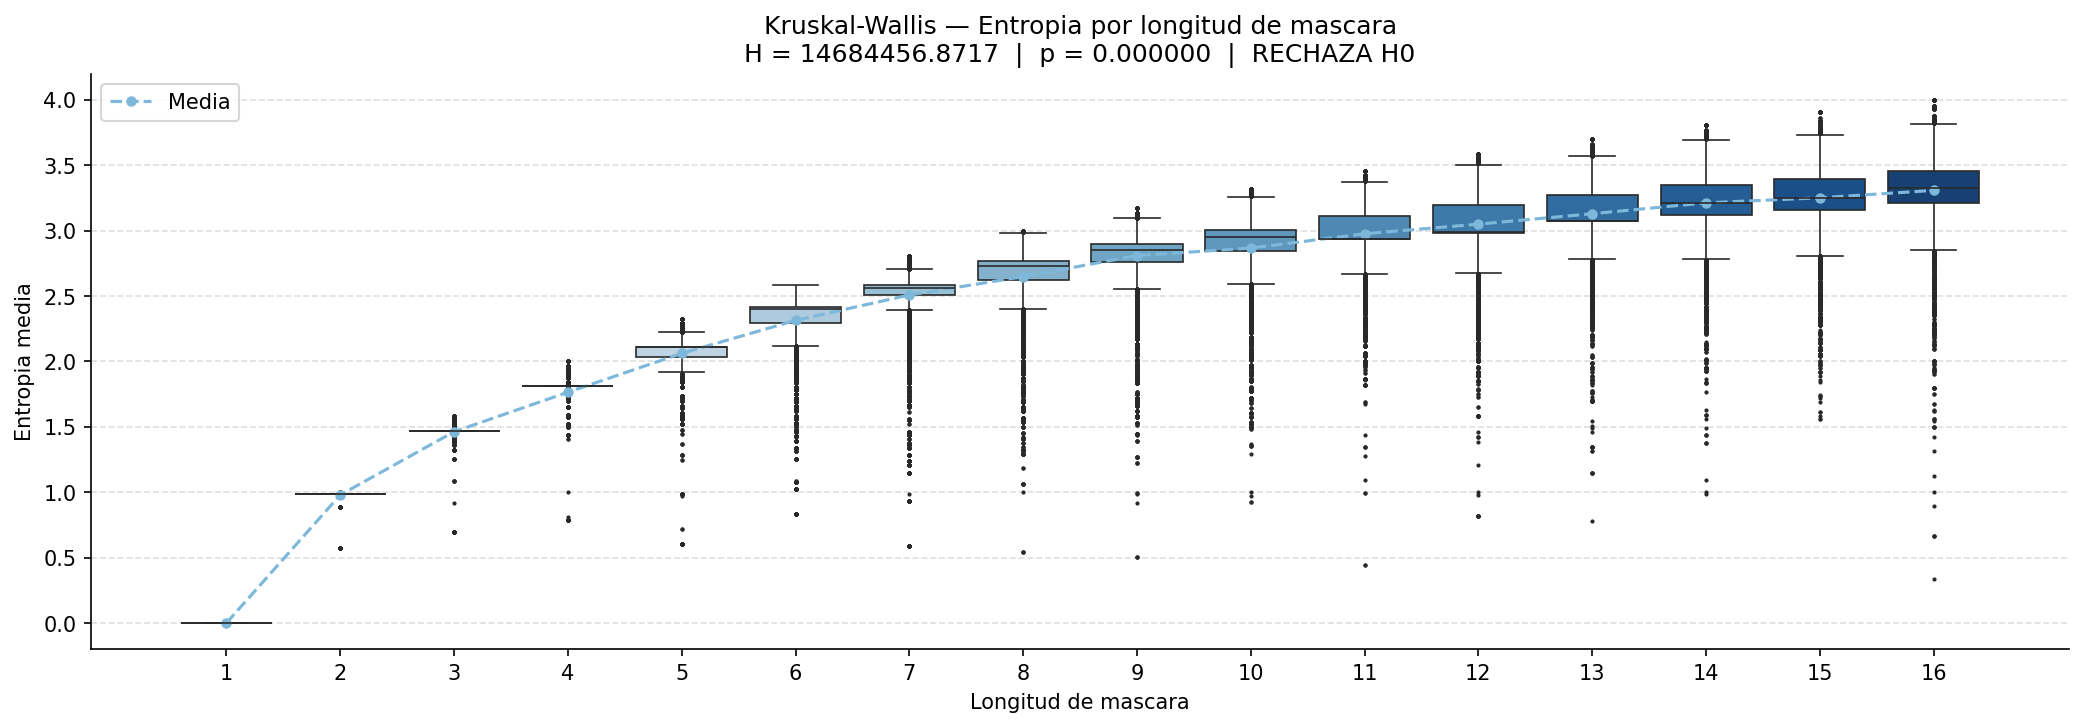
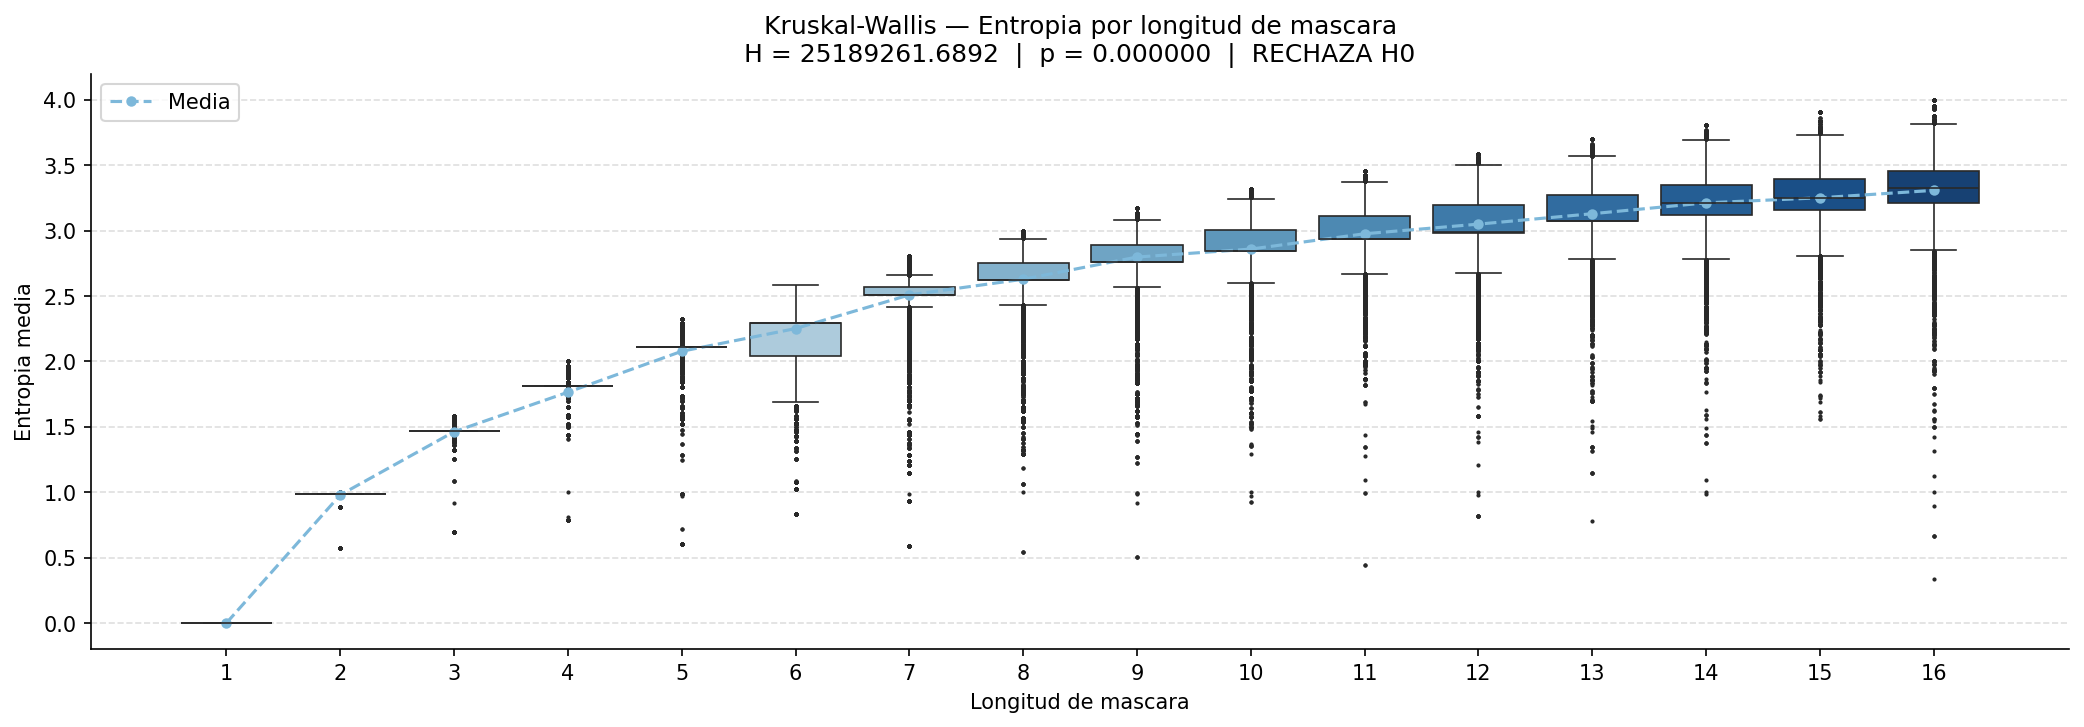
feat: annade test de independencia para matriz de transiciones y test de correlacions para aparicion en mascaras

diff --git a/codigo/03_modelacion.py b/codigo/03_modelacion.py
@@ -1256,12 +1256,368 @@ def analizar_patrones_mascaras():
     print(f"  -> Graficos en {OUT_PAT_DIR}/")
 
 
+def chi2_independencia_transiciones(alpha=0.05):
+    """
+    Aplica la prueba chi-cuadrado de independencia sobre la matriz de bigramas
+    de transicion entre tipos de caracter (L, U, D, S), para determinar si
+    el tipo destino es estadisticamente independiente del tipo origen.
+
+    Args:
+        None
+
+    Returns:
+        None: Guarda un grafico de residuos estandarizados y un resumen en texto plano.
+
+    Example:
+        >>> chi2_independencia_transiciones()
+        Chi2 de independencia (transiciones): X2 = 812345.23   gl = 9   p = 0.000000   RECHAZA H0
+        V de Cramer: 0.4821   Asociacion: Grande
+
+    Notes:
+        Los conteos crudos se reconstruyen desde ROCKYOUMASKS contando las
+        transiciones tipo-a-tipo ponderadas por frecuencia de mascara.
+        La prueba usa scipy.stats.chi2_contingency con correccion de Yates
+        desactivada (no aplica para tablas mayores a 2x2).
+        Se complementa con la V de Cramer para cuantificar la fuerza de
+        asociacion independientemente del tamaño muestral.
+        Con n en el orden de millones el rechazo de H0 es casi inevitable;
+        la V de Cramer es el indicador practico relevante.
+    """
+
+    OUT_CHI2_DIR = "../datos/procesados/graficos_chi2"
+    OUT_CHI2_TXT = "../datos/procesados/chi2_transiciones_resumen.txt"
+    os.makedirs(OUT_CHI2_DIR, exist_ok=True)
+
+    mascaras    = []
+    frecuencias = []
+
+    with open(ROCKYOUMASKS, "r", encoding="utf-8") as f:
+        reader = csv.DictReader(f)
+        for row in reader:
+            mascaras.append(row["mascara"])
+            frecuencias.append(int(row["frecuencia"]))
+
+    mascaras    = np.array(mascaras)
+    frecuencias = np.array(frecuencias, dtype=float)
+
+    tipos_ord = ["L", "U", "D", "S"]
+    t_idx     = {t: i for i, t in enumerate(tipos_ord)}
+    trans_mat = np.zeros((4, 4), dtype=float)
+
+    for m, f in zip(mascaras, frecuencias):
+        for k in range(len(m) - 1):
+            a, b = m[k], m[k + 1]
+            if a in t_idx and b in t_idx:
+                trans_mat[t_idx[a], t_idx[b]] += f
+
+    # scipy espera conteos enteros; se redondea porque las frecuencias son pesos
+    trans_counts = np.round(trans_mat).astype(int)
+
+    chi2, p, gl, esperados = stats.chi2_contingency(trans_counts, correction=False)
+
+    n        = trans_counts.sum()
+    min_dim  = min(trans_counts.shape[0] - 1, trans_counts.shape[1] - 1)
+    cramer_v = math.sqrt(chi2 / (n * min_dim))
+
+    rechaza = p < alpha
+    estado  = "RECHAZA H0" if rechaza else "No rechaza H0"
+
+    # Interpretar V de Cramer con gl = min(r-1, c-1) = 3
+    if cramer_v >= 0.29:
+        fuerza = "Grande"
+    elif cramer_v >= 0.17:
+        fuerza = "Media"
+    elif cramer_v >= 0.06:
+        fuerza = "Pequeña"
+    else:
+        fuerza = "Muy pequeña"
+
+    print(f"  Chi2 de independencia (transiciones): X2 = {chi2:.2f}   gl = {gl}   p = {p:.6f}   {estado}")
+    print(f"  V de Cramer: {cramer_v:.4f}   Asociacion: {fuerza}")
+
+    # Residuos estandarizados: (observado - esperado) / sqrt(esperado)
+    residuos = (trans_counts - esperados) / np.sqrt(esperados)
+
+    fig, axes = plt.subplots(1, 2, figsize=(12, 4))
+    fig.patch.set_facecolor("white")
+
+    ax1 = axes[0]
+    ax1.set_facecolor("white")
+    sns.heatmap(
+        trans_counts,
+        annot=True,
+        fmt=".0f",
+        xticklabels=tipos_ord,
+        yticklabels=tipos_ord,
+        cmap="Blues",
+        linewidths=0.5,
+        ax=ax1,
+        annot_kws={"size": 10}
+    )
+    ax1.set_title("Conteos observados\n(bigramas de transicion)", fontsize=10)
+    ax1.set_xlabel("Tipo destino")
+    ax1.set_ylabel("Tipo origen")
+
+    ax2 = axes[1]
+    ax2.set_facecolor("white")
+    sns.heatmap(
+        residuos,
+        annot=True,
+        fmt=".2f",
+        xticklabels=tipos_ord,
+        yticklabels=tipos_ord,
+        cmap="RdBu_r",
+        center=0,
+        linewidths=0.5,
+        ax=ax2,
+        annot_kws={"size": 10}
+    )
+    ax2.set_title(
+        f"Residuos estandarizados\nX² = {chi2:.2f}  |  gl = {gl}  |  V = {cramer_v:.4f}  |  {fuerza}",
+        fontsize=10
+    )
+    ax2.set_xlabel("Tipo destino")
+    ax2.set_ylabel("Tipo origen")
+
+    plt.suptitle(
+        f"Chi-cuadrado de independencia — transiciones entre tipos\n{estado}   p = {p:.6f}",
+        fontsize=11, y=1.02
+    )
+    plt.tight_layout()
+    plt.savefig(f"{OUT_CHI2_DIR}/chi2_transiciones.png", dpi=150, bbox_inches="tight", facecolor="white")
+    plt.close()
+
+    lineas = []
+    def pr(t=""):
+        lineas.append(t)
+
+    pr("=" * 65)
+    pr("  CHI2 DE INDEPENDENCIA — Bigramas de transicion entre tipos")
+    pr("=" * 65)
+    pr(f"  Mascaras unicas : {len(mascaras):>10,}")
+    pr(f"  Transiciones    : {int(n):>10,}")
+    pr()
+    pr(f"  X² estadistico  : {chi2:.4f}")
+    pr(f"  Grados de lib.  : {gl}")
+    pr(f"  p-valor         : {p:.6f}")
+    pr(f"  Resultado       : {estado}")
+    pr()
+    pr(f"  V de Cramer     : {cramer_v:.4f}   ({fuerza})")
+    pr()
+    pr("  Nota: con n en el orden de millones el rechazo de H0 es")
+    pr("  esperable. La V de Cramer es el indicador practico clave.")
+    pr(f"\n  Grafico en: {OUT_CHI2_DIR}/chi2_transiciones.png")
+
+    with open(OUT_CHI2_TXT, "w", encoding="utf-8") as f:
+        f.write("\n".join(lineas) + "\n")
+
+    print(f"\n  -> {OUT_CHI2_TXT} guardado")
+    print(f"  -> Grafico en {OUT_CHI2_DIR}/")
+
+
+def spearman_coocurrencia_tipos(alpha=0.05):
+    """
+    Calcula la correlacion de Spearman entre la presencia individual de cada
+    tipo de caracter (diagonal de la matriz de co-ocurrencia) y su co-ocurrencia
+    promedio con los demas tipos (promedio de la fila fuera de la diagonal),
+    usando los cuatro tipos L, U, D, S.
+
+    Adicionalmente calcula Spearman entre todos los pares de valores de
+    co-ocurrencia Jaccard ponderado (triangulo superior) y la presencia
+    individual de cada tipo involucrado en el par.
+
+    Args:
+        None
+
+    Returns:
+        None: Guarda un grafico de dispersion con tendencia y un resumen en texto plano.
+
+    Example:
+        >>> spearman_coocurrencia_tipos()
+        Spearman presencia vs co-ocurrencia media: rho = 0.9487   p = 0.0513   No rechaza H0
+        Spearman pares Jaccard vs presencia media del par: rho = 0.8321   p = 0.0000   RECHAZA H0
+
+    Notes:
+        La presencia individual se calcula como el porcentaje ponderado de
+        contrasennas que contienen al menos una vez el tipo dado.
+        La co-ocurrencia Jaccard ponderado entre tipos A y B se define como
+        frecuencia(A y B) / frecuencia(A o B) * 100.
+        Con solo 4 tipos el n de la primera correlacion es pequeno (n=4);
+        la segunda usa los C(4,2)=6 pares del triangulo superior (n=6).
+        Los resultados deben interpretarse como exploratoria descriptiva.
+    """
+
+    OUT_SP2_DIR = "../datos/procesados/graficos_spearman_cooc"
+    OUT_SP2_TXT = "../datos/procesados/spearman_coocurrencia_resumen.txt"
+    os.makedirs(OUT_SP2_DIR, exist_ok=True)
+
+    mascaras    = []
+    frecuencias = []
+
+    with open(ROCKYOUMASKS, "r", encoding="utf-8") as f:
+        reader = csv.DictReader(f)
+        for row in reader:
+            mascaras.append(row["mascara"])
+            frecuencias.append(int(row["frecuencia"]))
+
+    mascaras    = np.array(mascaras)
+    frecuencias = np.array(frecuencias, dtype=float)
+    total_pw    = frecuencias.sum()
+
+    chars_set = [set(m) for m in mascaras]
+
+    tipos4 = ["L", "U", "D", "S"]
+    tiene  = {
+        t: np.array([t in s for s in chars_set])
+        for t in tipos4
+    }
+
+    def wpct(mask_bool):
+        return frecuencias[mask_bool].sum() / total_pw * 100
+
+    # Matriz de co-ocurrencia identica a la del analisis de patrones
+    n4  = len(tipos4)
+    mat = np.zeros((n4, n4))
+
+    for i, ti in enumerate(tipos4):
+        for j, tj in enumerate(tipos4):
+            if i == j:
+                mat[i, j] = wpct(tiene[ti])
+            else:
+                ambos      = tiene[ti] & tiene[tj]
+                cualquiera = tiene[ti] | tiene[tj]
+                denom      = frecuencias[cualquiera].sum()
+                mat[i, j]  = (frecuencias[ambos].sum() / denom * 100) if denom > 0 else 0
+
+    # Correlacion 1: presencia individual vs co-ocurrencia media con otros tipos
+    presencia_ind = np.array([mat[i, i] for i in range(n4)])
+    cooc_media    = np.array([
+        np.mean([mat[i, j] for j in range(n4) if j != i])
+        for i in range(n4)
+    ])
+
+    rho1, p1 = stats.spearmanr(presencia_ind, cooc_media)
+    rechaza1  = p1 < alpha
+    estado1   = "RECHAZA H0" if rechaza1 else "No rechaza H0"
+
+    print(f"  Spearman presencia vs co-ocurrencia media: rho = {rho1:.4f}   p = {p1:.4f}   {estado1}")
+
+    # Correlacion 2: para cada par (i,j) con i<j, Jaccard vs media de presencias del par
+    pares_jaccard  = []
+    pares_presencia = []
+    pares_labels    = []
+
+    for i in range(n4):
+        for j in range(i + 1, n4):
+            pares_jaccard.append(mat[i, j])
+            pares_presencia.append((presencia_ind[i] + presencia_ind[j]) / 2)
+            pares_labels.append(f"{tipos4[i]}-{tipos4[j]}")
+
+    pares_jaccard   = np.array(pares_jaccard)
+    pares_presencia = np.array(pares_presencia)
+
+    rho2, p2 = stats.spearmanr(pares_jaccard, pares_presencia)
+    rechaza2  = p2 < 0.05
+    estado2   = "RECHAZA H0" if rechaza2 else "No rechaza H0"
+
+    print(f"  Spearman pares Jaccard vs presencia media del par: rho = {rho2:.4f}   p = {p2:.4f}   {estado2}")
+
+    fig, axes = plt.subplots(1, 2, figsize=(13, 5))
+    fig.patch.set_facecolor("white")
+
+    ax1 = axes[0]
+    ax1.set_facecolor("white")
+    ax1.scatter(presencia_ind, cooc_media, s=120, color=palette[7], edgecolors=palette[9], zorder=3)
+
+    for i, label in enumerate(tipos4):
+        ax1.annotate(label, (presencia_ind[i], cooc_media[i]),
+                     textcoords="offset points", xytext=(6, 4), fontsize=11)
+
+    if len(presencia_ind) > 2:
+        z     = np.polyfit(presencia_ind, cooc_media, 1)
+        p_fit = np.poly1d(z)
+        xs    = np.linspace(presencia_ind.min(), presencia_ind.max(), 100)
+        ax1.plot(xs, p_fit(xs), "--", color=palette[4], linewidth=1.5, label="Tendencia")
+        ax1.legend()
+
+    ax1.set_title(
+        f"Presencia individual vs Co-ocurrencia media\nrho = {rho1:.4f}  |  p = {p1:.4f}  |  {estado1}",
+        fontsize=11
+    )
+    ax1.set_xlabel("Presencia individual del tipo (%)")
+    ax1.set_ylabel("Co-ocurrencia media con otros tipos (%)")
+    sns.despine(ax=ax1)
+    ax1.grid(linestyle="--", alpha=0.4)
+
+    ax2 = axes[1]
+    ax2.set_facecolor("white")
+    ax2.scatter(pares_presencia, pares_jaccard, s=120, color=palette[7], edgecolors=palette[9], zorder=3)
+
+    for i, label in enumerate(pares_labels):
+        ax2.annotate(label, (pares_presencia[i], pares_jaccard[i]),
+                     textcoords="offset points", xytext=(6, 4), fontsize=10)
+
+    if len(pares_presencia) > 2:
+        z     = np.polyfit(pares_presencia, pares_jaccard, 1)
+        p_fit = np.poly1d(z)
+        xs    = np.linspace(pares_presencia.min(), pares_presencia.max(), 100)
+        ax2.plot(xs, p_fit(xs), "--", color=palette[4], linewidth=1.5, label="Tendencia")
+        ax2.legend()
+
+    ax2.set_title(
+        f"Presencia media del par vs Jaccard ponderado\nrho = {rho2:.4f}  |  p = {p2:.4f}  |  {estado2}",
+        fontsize=11
+    )
+    ax2.set_xlabel("Presencia media del par (%)")
+    ax2.set_ylabel("Jaccard ponderado del par (%)")
+    sns.despine(ax=ax2)
+    ax2.grid(linestyle="--", alpha=0.4)
+
+    plt.suptitle("Spearman — Co-ocurrencia entre tipos de caracter", fontsize=12, y=1.02)
+    plt.tight_layout()
+    plt.savefig(f"{OUT_SP2_DIR}/spearman_coocurrencia.png", dpi=150, bbox_inches="tight", facecolor="white")
+    plt.close()
+
+    lineas = []
+    def pr(t=""):
+        lineas.append(t)
+
+    pr("=" * 65)
+    pr("  SPEARMAN — Co-ocurrencia entre tipos de caracter")
+    pr("=" * 65)
+    pr(f"  Mascaras unicas : {len(mascaras):>10,}")
+    pr(f"  Contrasennas    : {int(total_pw):>10,}")
+    pr()
+    pr("--- Correlacion 1: presencia individual vs co-ocurrencia media ---")
+    pr(f"  n puntos  : {n4} (uno por tipo)")
+    pr(f"  rho       : {rho1:.6f}")
+    pr(f"  p-valor   : {p1:.6f}")
+    pr(f"  Resultado : {estado1}")
+    pr()
+    pr("--- Correlacion 2: Jaccard del par vs presencia media del par ---")
+    pr(f"  n puntos  : {len(pares_jaccard)} (C(4,2) pares)")
+    for lbl, jac, pre in zip(pares_labels, pares_jaccard, pares_presencia):
+        pr(f"    {lbl:<6}  Jaccard = {jac:.2f}%   Presencia media = {pre:.2f}%")
+    pr()
+    pr(f"  rho       : {rho2:.6f}")
+    pr(f"  p-valor   : {p2:.6f}")
+    pr(f"  Resultado : {estado2}")
+    pr()
+    pr("  Nota: n pequeno (4 y 6 puntos); interpretar como exploratorio.")
+    pr(f"\n  Grafico en: {OUT_SP2_DIR}/spearman_coocurrencia.png")
+
+    with open(OUT_SP2_TXT, "w", encoding="utf-8") as f:
+        f.write("\n".join(lineas) + "\n")
+
+    print(f"\n  -> {OUT_SP2_TXT} guardado")
+    print(f"  -> Grafico en {OUT_SP2_DIR}/")
+
 # main
 if __name__ == "__main__":
 
     alpha_ks   = 0.05
-    cap_expand = 500_000
-    cap_spear  = 200_000
+    cap_expand = 14_000_000
+    cap_spear  = 14_000_000
 
     print("  Bienvenido al menu de pruebas estadisticas")
 
@@ -1323,6 +1679,23 @@ if __name__ == "__main__":
     # Complementa KW al dar una medida continua de la relación, no solo si
     # los grupos difieren.
     spearman_longitud_entropia(cap_spear)
+
+    print("Calculando Chi2 de independencia sobre transiciones...")
+    # Prueba si el tipo destino es independiente del tipo origen en los bigramas.
+    # Al rechazar H0 se confirma que las transiciones siguen patrones estructurales
+    # no aleatorios (ej. L→L domina). La V de Cramer cuantifica la fuerza real
+    # de esa dependencia mas alla del tamaño muestral, respondiendo si los patrones
+    # de transicion son predecibles y por tanto explotables en ataques de diccionario.
+    chi2_independencia_transiciones(alpha_ks)
+
+    print("Calculando Spearman sobre co-ocurrencia de tipos...")
+    # Dos correlaciones complementarias sobre la matriz de Jaccard ponderado:
+    #   (1) presencia individual del tipo vs su co-ocurrencia media con otros tipos.
+    #   (2) presencia media del par vs Jaccard del par (6 combinaciones posibles).
+    # Un rho alto en (2) indica que los tipos mas comunes tienden a co-ocurrir mas,
+    # confirmando que la complejidad de la mascara no se distribuye uniformemente
+    # sino que sigue la popularidad de sus tipos componentes.
+    spearman_coocurrencia_tipos(alpha_ks)
 
     print("Analizando los patrones de las mascaras...")
     analizar_patrones_mascaras()
